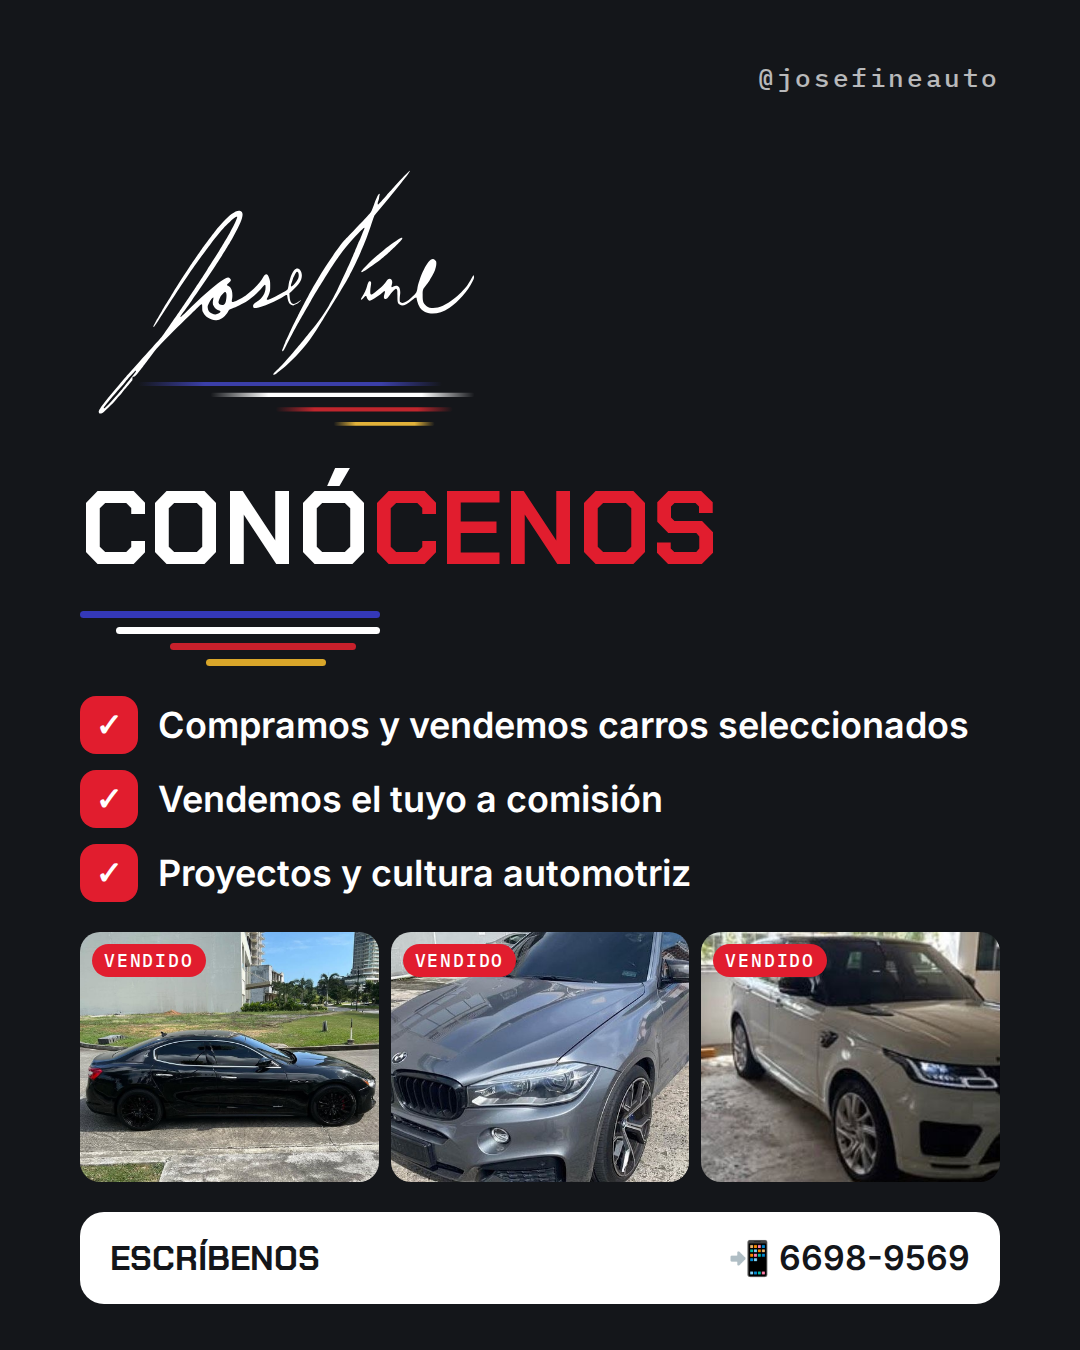
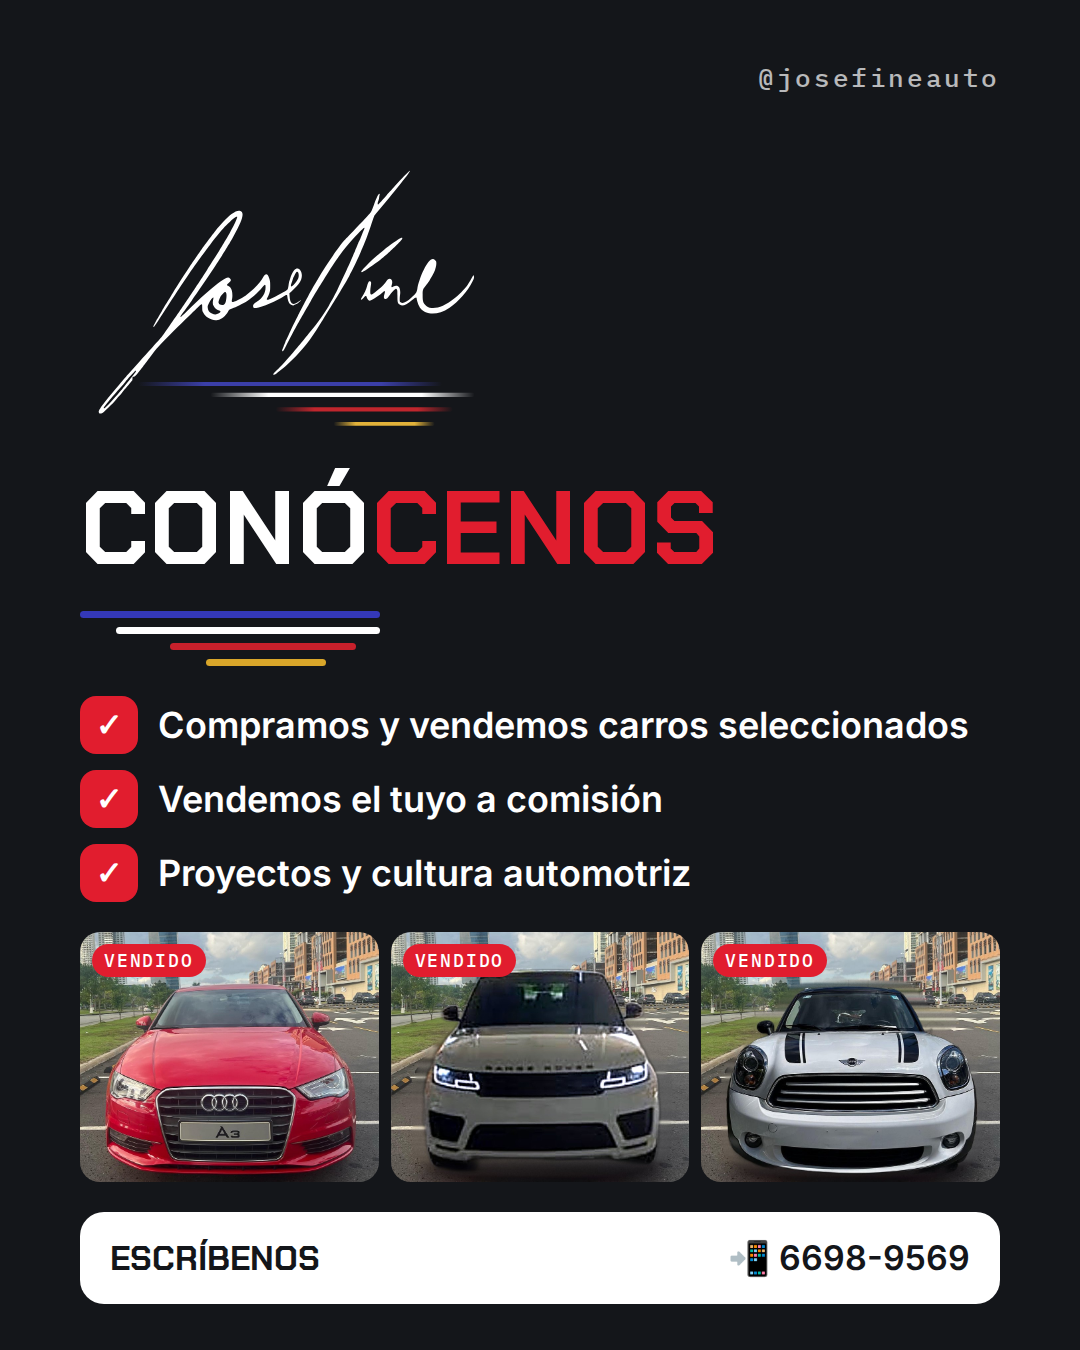
Post Conócenos: Audi A3, Range Rover y Mini con el mismo fondo de ciudad
Claude-Session: https://claude.ai/code/session_01Waia73eHNWtSrif5AzmwHD

Changed region(s): [[0.0611, 0.6844, 0.9472, 0.9022]]

diff --git a/web/kit/index.html b/web/kit/index.html
@@ -52,7 +52,7 @@
     var WEB = "joseq11692-boop.github.io/JosefineAuto";
     var POSTS = [
       { id: "post0c-conocenos", n: 1, semana: "HOY · Conócenos (1 imagen)", titulo: "Conócenos",
-        texto: "Somos Josefine Auto. 🏁\n\nCompramos y vendemos carros seleccionados en Panamá, vendemos el tuyo a comisión y vivimos la cultura automotriz.\n\nMaserati, BMW, Range Rover… ya vendidos. ¿El próximo es el tuyo?\n\n📲 Escríbenos al 6698-9569\n🌐 Web en la bio\n\n#josefineauto #carrospanama #autospanama #vendetucarro #panama",
+        texto: "Somos Josefine Auto. 🏁\n\nCompramos y vendemos carros seleccionados en Panamá, vendemos el tuyo a comisión y vivimos la cultura automotriz.\n\nAudi A3, Range Rover, Mini… ya vendidos. ¿El próximo es el tuyo?\n\n📲 Escríbenos al 6698-9569\n🌐 Web en la bio\n\n#josefineauto #carrospanama #autospanama #vendetucarro #panama",
         nota: "Publícalo entre 6 y 8 p. m. y fíjalo en tu perfil. Compártelo también en tu historia." },
       { id: "post0b-nosotros", n: 7, semana: "HOY · Presentación", titulo: "Conoce Josefine Auto",
         texto: "Mucho gusto, somos Josefine Auto. 🏁\n\nCompramos y vendemos carros seleccionados en Panamá, vendemos el tuyo a comisión y vivimos la cultura automotriz con nuestros propios proyectos.\n\n✅ Papeles verificados\n✅ Prueba anti-inundación\n✅ Escáner y revisión en taller\n✅ Defectos siempre a la vista\n\nYa vendimos desde un BMW 320i hasta un Maserati Ghibli SQ4. Y en casa estamos armando un Lancer Evolution VI GSR y un Civic Si. 🔧\n\n¿Buscas carro? ¿Quieres vender el tuyo? ¿O solo te gustan los carros?\nSíguenos y escríbenos: 📲 6698-9569\n🌐 Web en la bio\n\n👇 Cuéntanos en los comentarios: ¿cuál es el carro de tus sueños?\n\n#josefineauto #carrospanama #autospanama #jdmpanama #carculture #panama #lancerevolution #civicsi",

diff --git a/herramientas/build/generar-post-nosotros.js b/herramientas/build/generar-post-nosotros.js
@@ -59,7 +59,7 @@ p{font-size:38px;line-height:1.35}.claro p{color:#5b6270}.oscuro p{color:#c9ccd3
 .unico{padding:150px 80px 140px;gap:30px;align-content:start}
 .unico .firma-u{width:420px}
 .tira{display:grid;grid-template-columns:repeat(3,1fr);gap:12px}
-.tira div{height:250px;border-radius:20px;background-size:cover;background-position:center;position:relative;overflow:hidden}
+.tira div{height:250px;border-radius:20px;background-size:cover;background-position:center 62%;position:relative;overflow:hidden}
 .tira div::after{content:"VENDIDO";position:absolute;top:12px;left:12px;font-family:'IBM Plex Mono',monospace;font-size:18px;letter-spacing:.1em;background:#e11d2e;color:#fff;padding:5px 12px;border-radius:99px}
 .lista3{display:grid;gap:16px}
 .lista3 div{display:flex;gap:20px;align-items:center;font-size:36px;font-weight:600}
@@ -109,7 +109,7 @@ const L = [
       <div><i>✓</i>Vendemos el tuyo a comisión</div>
       <div><i>✓</i>Proyectos y cultura automotriz</div>
     </div>
-    <div class="tira">${[V[0], V[1], V[2]].map((u) => `<div style="background-image:url('${u}')"></div>`).join("")}</div>
+    <div class="tira">${["audi", "range", "mini"].map((k) => img(`img/conocenos/${k}.jpg`)).map((u) => `<div style="background-image:url('${u}')"></div>`).join("")}</div>
     <div class="barra-cta"><span>Escríbenos</span>📲 6698-9569</div></div>`;
   await p.setContent(base + U + "</body></html>", { waitUntil: "networkidle" });
   await p.evaluate(() => document.fonts.ready);
